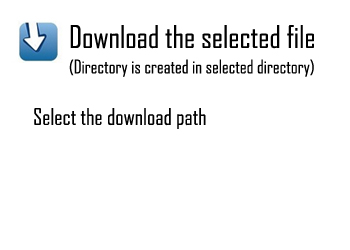
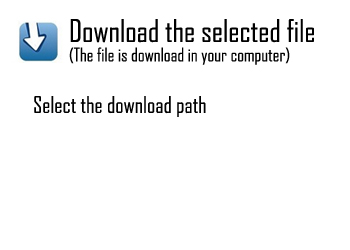
client update

Changed region(s): [[0.2, 0.056, 0.9143, 0.308], [0.0857, 0.364, 0.6, 0.504]]

diff --git a/src/com/sg/gui/FileMngPanel.java b/src/com/sg/gui/FileMngPanel.java
@@ -54,7 +54,7 @@ public class FileMngPanel extends JPanel {
 		super();
 		this.width = w;
 		this.height = h;
-		this.status = 0;
+		this.status = 1;
 		this.file = null;
 		this.filePath = null;
 		this.setLayout(null);
@@ -79,19 +79,10 @@ public class FileMngPanel extends JPanel {
 
 		label = new JLabel[5];
 		textField = new JTextField[2];
-		btn = new JButton[3];
+		btn = new JButton[4];
 
 		handler = new ActionHandler();
 
-		/*
-		label[0] = new JLabel();
-		label[0].setBounds(20,50,250,30);
-		label[0].setFont(inputFont);
-
-		label[1] = new JLabel();
-		label[1].setBounds(20,100,300,30);
-		label[1].setFont(Constants.Font2);
-*/
 		for(int i=0;i<5;i++){
 			label[i] = new JLabel();
 			label[i].setBounds(30,50+(i*30),300,30);
@@ -121,20 +112,31 @@ public class FileMngPanel extends JPanel {
 		btn[1].setBounds(150,200,80,30);
 		btn[1].addActionListener(handler);
 
-		// 취서버튼
+		// 취소버튼
 		btn[2] = new JButton(new ImageIcon(Constants.ButtonPath.cancelBtn1.getPath()));
 		btn[2].setRolloverIcon(new ImageIcon(Constants.ButtonPath.cancelBtn2.getPath()));
 		btn[2].setBounds(250,200,80,30);
 		btn[2].addActionListener(handler);
+		
+		// download Path 버튼
+		btn[3] = new JButton(new ImageIcon(Constants.ButtonPath.downloadPathBtn1.getPath()));
+		btn[3].setRolloverIcon(new ImageIcon(Constants.ButtonPath.downloadPathBtn2.getPath()));
+		btn[3].setBounds(280,100,30,30);
+		btn[3].addActionListener(handler);
 
 		this.add(bgImg[1]);
 	}
 
 	public void initialize() { 
+		this.status=1;
 		textField[0].setText("");
 		textField[1].setText("");
 		label[0].setText("");
 		label[1].setText("");
+		label[2].setText("");
+		label[3].setText("");
+		label[4].setText("");
+		changePanel();
 	}
 
 	public int getStatus() {
@@ -158,7 +160,13 @@ public class FileMngPanel extends JPanel {
 	public void setUploadFilePath(){
 		String path = ClientLauncher.getFileMgr().loadUploadFile();
 		if(path != null){
-			System.out.println(path);
+			textField[1].setText(path);
+		}
+	}
+	
+	public void setDownloadFilePath(){
+		String path = ClientLauncher.getFileMgr().getDownloadPath();
+		if(path != null){
 			textField[1].setText(path);
 		}
 	}
@@ -189,6 +197,8 @@ public class FileMngPanel extends JPanel {
 			this.add(btn[2]);
 			break;
 		case 4 : 	//	Download
+			this.add(textField[1]);
+			this.add(btn[3]);
 			this.add(btn[1]);
 			this.add(btn[2]);
 			break;
@@ -220,6 +230,11 @@ public class FileMngPanel extends JPanel {
 			if(event.getSource()==btn[0]){
 				setUploadFilePath();
 			}
+			
+			// download할 경로 설정
+			if(event.getSource()==btn[3]){
+				setDownloadFilePath();
+			}
 
 			// 확인버튼을 누르면 해당 상태에 맞는 함수를 call 
 			if(event.getSource()==btn[1]){
@@ -228,44 +243,48 @@ public class FileMngPanel extends JPanel {
 				
 				// create
 				if(status == 2) {
-					if(dirName.indexOf('.')==-1){
-						ClientLauncher.getFrame().getFileListPanel().create(dirName);
+					if(dirName.indexOf('.')!=-1){
+						JOptionPane.showMessageDialog(null, "Incorrect dirName");
 					}
 					else{
-						JOptionPane.showMessageDialog(null, "Incorrect dirName");
+						ClientLauncher.getFrame().getFileListPanel().create(dirName);
 					}
 				}
 				// upload
 				else if(status == 3) {
-					String dirPath = ClientLauncher.getFrame().getFileListPanel().getSelectedPath();
-					try {
-						ClientLauncher.getHybrid().upload(fileName,dirPath);
-					} catch (IOException e) {
-						e.printStackTrace();
+					if(fileName.equals("")){
+						JOptionPane.showMessageDialog(null, "Load file");
 					}
-					ClientLauncher.getFrame().getFileListPanel().file_to_cloud();
-					
-					/* 메타데이터 전송 */
-					MetaData m_data = new MetaData();
-					ClientLauncher.getFrame().getFileListPanel().upload(fileName, m_data);
-
+					else{
+						String dirPath = ClientLauncher.getFrame().getFileListPanel().getSelectedPath();
+						try {
+							ClientLauncher.getHybrid().upload(fileName,dirPath);
+						} catch (IOException e) {
+							e.printStackTrace();
+						}
+						ClientLauncher.getFrame().getFileListPanel().file_to_cloud();
+						
+						/* 메타데이터 전송 */
+						MetaData m_data = new MetaData();
+						ClientLauncher.getFrame().getFileListPanel().upload(fileName, m_data);
+					}
 				}
 				// download
 				else if(status == 4) {
-					/*접근 할 경로 + 파일 명 형식 : /root/asd/C:UsersSSM123.bkg*/
-					//String sourcePath = ClientLauncher.getFrame().getFileListPanel().getSelectedPath();
-					//System.out.println("sourcePath : " + sourcePath);
-					String sourcePath = "/root/hi/test.txt";
-					/*destPath : local 에 다운로드 할 dir 경, 어디에 다운로드할지 경로 설정 필요*/
-					String destPath = "/home/sungjin/downloadtest/";
-					/**/
-					try {
-						ClientLauncher.getHybrid().download(sourcePath, destPath);
-					} catch (IOException e) {
-						// TODO Auto-generated catch block
-						e.printStackTrace();
+					if(fileName.equals("")){
+						JOptionPane.showMessageDialog(null, "Load file");
 					}
-					ClientLauncher.getFrame().getFileListPanel().download();
+					else{
+						String sourcePath = "/root/hi/test.txt";
+						String destPath = "/home/sungjin/downloadtest/";
+						try {
+							ClientLauncher.getHybrid().download(sourcePath, destPath);
+						} catch (IOException e) {
+							// TODO Auto-generated catch block
+							e.printStackTrace();
+						}
+						ClientLauncher.getFrame().getFileListPanel().download();
+					}
 				}
 				// delete
 				else if(status == 5) {

diff --git a/src/com/sg/gui/FileListPanel.java b/src/com/sg/gui/FileListPanel.java
@@ -111,8 +111,8 @@ public class FileListPanel extends JPanel {
 					fileMngPanel.getLabel()[1].setText("Parent : " + selectedNode.getParent());
 					fileMngPanel.getLabel()[2].setText("Depth : " + selectedNode.getLevel());
 					fileMngPanel.getLabel()[3].setText("Path : " + getSelectedPath());
+					fileMngPanel.changePanel();
 				}
-				changePanel();
 			}
 		});
 		fileTree.setEditable(false);
@@ -137,6 +137,7 @@ public class FileListPanel extends JPanel {
 		makeTree();
 		((DefaultTreeModel)fileTree.getModel()).reload();
 		changePanel();
+		fileMngPanel.initialize();
 	}
 
 	// fileInfoList에 저장된 node를 통해 tree를 만듬
@@ -204,7 +205,7 @@ public class FileListPanel extends JPanel {
 	// Component 추가 및 제거를 반영하기 위한 새로고침
 	public void changePanel() { 
 		this.remove(bgImg);
-		fileMngPanel.changePanel();
+		fileMngPanel.initialize();
 		this.add(scroll);
 		this.add(fileMngPanel);
 		this.add(bgImg);
@@ -288,8 +289,12 @@ public class FileListPanel extends JPanel {
 
 			selectedNode = getSelectedNode();
 			
+			if(selectedNode == null){
+				JOptionPane.showMessageDialog(null, "Not Selected");
+			}
+			
 			// Create
-			if(event.getSource()==btn[0]){
+			else if(event.getSource()==btn[0]){
 				if(selectedNode.toString().indexOf('.') == -1){
 					fileMngPanel.setStatus(2);
 					fileMngPanel.changePanel();
@@ -298,7 +303,7 @@ public class FileListPanel extends JPanel {
 					JOptionPane.showMessageDialog(null, "Select upload folder");
 			}
 			// Upload
-			if(event.getSource()==btn[1]){
+			else if(event.getSource()==btn[1]){
 				if(selectedNode.toString().indexOf('.') == -1){
 					fileMngPanel.setStatus(3);
 					fileMngPanel.changePanel();
@@ -308,13 +313,13 @@ public class FileListPanel extends JPanel {
 				
 			}
 			// Download
-			if(event.getSource()==btn[2]){
+			else if(event.getSource()==btn[2]){
 				fileMngPanel.setStatus(4);
 				fileMngPanel.changePanel();
 			}
 
 			// Delete
-			if(event.getSource()==btn[3]){
+			else if(event.getSource()==btn[3]){
 				fileMngPanel.setStatus(5);
 				fileMngPanel.changePanel();
 			}

diff --git a/src/com/sg/controller/FileMgr.java b/src/com/sg/controller/FileMgr.java
@@ -93,7 +93,7 @@ public class FileMgr {
 		}
 	}
 
-	// file을 load함 
+	// key file을 load함 
 	// return 	vector(0) : filePath
 	//			vector(1) : key
 	public Vector<String> loadKeyFile(){
@@ -135,6 +135,7 @@ public class FileMgr {
 		return result;
 	}
 	
+	// upload할 file path를 return
 	public String loadUploadFile(){
 		String path=null;
 		JFileChooser fileDialog = new JFileChooser(new File(homePath));
@@ -149,5 +150,18 @@ public class FileMgr {
 		return path;
 	}
 	
-	
+	// download할 path를 return
+	public String getDownloadPath(){
+		String path=null;
+		JFileChooser fileDialog = new JFileChooser(new File(homePath));
+		int isSelected = fileDialog.showSaveDialog(null);
+		if(isSelected == JFileChooser.APPROVE_OPTION) {
+			File file = fileDialog.getSelectedFile();
+			BufferedReader in = null;
+			if(file != null) {
+				path = file.getAbsolutePath();
+			}
+		}
+		return path;
+	}
 }

diff --git a/src/com/sg/main/Constants.java b/src/com/sg/main/Constants.java
@@ -101,7 +101,9 @@ public class Constants {
 		loadKeyfileBtn1("img/button/loadKeyfileBtn1.jpg"),
 		loadKeyfileBtn2("img/button/loadKeyfileBtn2.jpg"),
 		fileOpenBtn1("img/button/fileOpenBtn1.jpg"),
-		fileOpenBtn2("img/button/fileOpenBtn2.jpg");
+		fileOpenBtn2("img/button/fileOpenBtn2.jpg"),		
+		downloadPathBtn1("img/button/downloadPathBtn1.jpg"),
+		downloadPathBtn2("img/button/downloadPathBtn2.jpg");
 		
 		final private String path;
 		private ButtonPath(String path) { this.path = path; }

diff --git a/src/com/sg/gui/DirectoryMngPanel.java b/src/com/sg/gui/DirectoryMngPanel.java
@@ -44,7 +44,7 @@ public class DirectoryMngPanel extends JPanel {
 		super();
 		this.width = w;
 		this.height = h;
-		this.status = 0;
+		this.status = 1;
 		this.setLayout(null);
 		this.setBackground(Constants.backColor);
 		this.setBorder(new LineBorder(Color.LIGHT_GRAY));
@@ -120,6 +120,7 @@ public class DirectoryMngPanel extends JPanel {
 
 	public void initialize() { 
 		this.key=null;
+		this.status=1;
 		textField[0].setText("");
 		textField[1].setText("");
 		label[0].setText("");

diff --git a/src/com/sg/gui/DirectoryListPanel.java b/src/com/sg/gui/DirectoryListPanel.java
@@ -49,7 +49,6 @@ public class DirectoryListPanel extends JPanel {
 	public DirectoryListPanel(int w, int h) {
 
 		super();
-		boolean isAccessed = false;
 		this.width = w;
 		this.height = h;
 		this.isSelected = false;
@@ -173,6 +172,8 @@ public class DirectoryListPanel extends JPanel {
 	}
 
 	public void initialize() {
+		this.isSelected = false;
+		this.isAccessed = false;
 		dirMngPanel.initialize();
 	}
 
